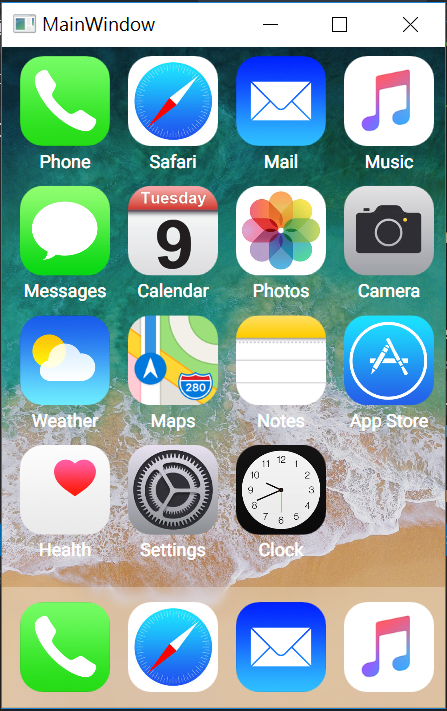
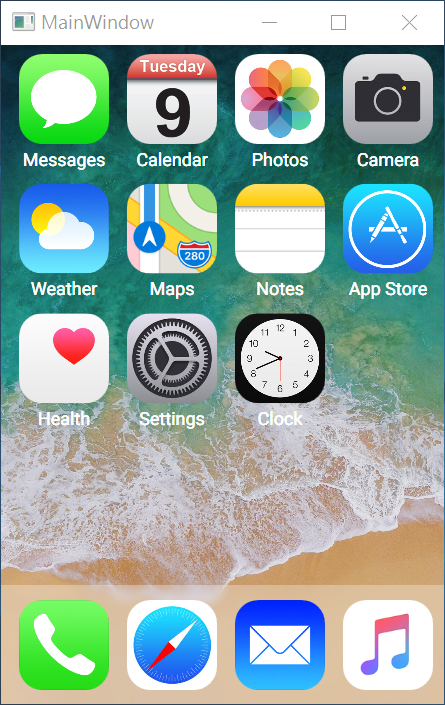
Add viewbox to make RWD

diff --git a/iosLayout/MainWindow.xaml b/iosLayout/MainWindow.xaml
@@ -15,51 +15,59 @@
         mc:Ignorable="d"
         Title="MainWindow"
         WindowStartupLocation="CenterScreen"
-        Height="470"
-        Width="310">
+        WindowStyle="SingleBorderWindow"
+        AllowsTransparency="False"
+        Height="587"
+        Width="300"
+        MouseDoubleClick="Window_MouseDoubleClick">
+
   <Window.DataContext>
     <local:MainWindowViewModel />
   </Window.DataContext>
-  <Grid>
-    <Grid x:Name="BlurContainer">
-      <Image Stretch="Fill"
-             Source="Assets/wallpaper.png" />
-    </Grid>
-    <Grid>
-      <Grid.RowDefinitions>
-        <RowDefinition Height="auto" />
-        <RowDefinition Height="360" />
-        <RowDefinition Height="auto" />
-        <RowDefinition Height="80" />
-      </Grid.RowDefinitions>
-      <!--<StackPanel Orientation="Horizontal">
-        <Button Style="{StaticResource Folder}">
-          <ItemsControl Style="{StaticResource FolderPanel}"
-                        ItemsSource="{Binding Folder1Items}">
+
+  <Viewbox Stretch="Uniform">
+    <Grid Width="293"
+          Height="557">
+      <Grid.Background>
+        <ImageBrush ImageSource="Assets/iPhone.png"
+                    Stretch="Uniform" />
+      </Grid.Background>
+      <Grid Margin="36,81,33.333,81.333">
+
+        <Grid x:Name="BlurContainer">
+          <Image Stretch="Fill"
+                 Source="Assets/wallpaper.png" />
+        </Grid>
+        <Grid>
+          <Grid.RowDefinitions>
+            <RowDefinition Height="auto" />
+            <RowDefinition Height="360" />
+            <RowDefinition Height="auto" />
+            <RowDefinition Height="80" />
+          </Grid.RowDefinitions>
+
+          <local:SwipeableFrame Grid.Row="1"
+                                x:Name="MainFrame">
+            <local:Page1 Width="{Binding ActualWidth, RelativeSource={RelativeSource Mode=FindAncestor, AncestorType=Canvas}}"
+                         Height="{Binding ActualHeight, RelativeSource={RelativeSource Mode=FindAncestor, AncestorType=Canvas}}" />
+            <local:Page2 Width="{Binding ActualWidth, RelativeSource={RelativeSource Mode=FindAncestor, AncestorType=Canvas}}"
+                         Height="{Binding ActualHeight, RelativeSource={RelativeSource Mode=FindAncestor, AncestorType=Canvas}}" />
+          </local:SwipeableFrame>
+
+          <controls:BlurryUserControl Name="blurry"
+                                      Grid.Row="3"
+                                      BlurContainer="{Binding ElementName=BlurContainer}"
+                                      Background="{StaticResource BlurryBackground}" />
+          <ItemsControl Name="MainButtonsPanel"
+                        Style="{StaticResource MainButtonPanel}"
+                        Grid.Row="3"
+                        Panel.ZIndex="1"
+                        ItemsSource="{Binding MainButtonsPanelItems}">
           </ItemsControl>
-        </Button>
-      </StackPanel>-->
 
-
-      <local:SwipeableFrame Grid.Row="1"
-                            x:Name="MainFrame">
-        <local:Page1 Width="{Binding ActualWidth, RelativeSource={RelativeSource Mode=FindAncestor, AncestorType=Canvas}}"
-                     Height="{Binding ActualHeight, RelativeSource={RelativeSource Mode=FindAncestor, AncestorType=Canvas}}" />
-        <local:Page2 Width="{Binding ActualWidth, RelativeSource={RelativeSource Mode=FindAncestor, AncestorType=Canvas}}"
-                     Height="{Binding ActualHeight, RelativeSource={RelativeSource Mode=FindAncestor, AncestorType=Canvas}}" />
-      </local:SwipeableFrame>
-
-      <controls:BlurryUserControl Name="blurry"
-                                  Grid.Row="3"
-                                  BlurContainer="{Binding ElementName=BlurContainer}"
-                                  Background="{StaticResource BlurryBackground}" />
-      <ItemsControl Name="MainButtonsPanel"
-                    Style="{StaticResource MainButtonPanel}"
-                    Grid.Row="3"
-                    Panel.ZIndex="1"
-                    ItemsSource="{Binding MainButtonsPanelItems}">
-      </ItemsControl>
-
+        </Grid>
+      </Grid>
     </Grid>
-  </Grid>
+
+  </Viewbox>
 </Window>

diff --git a/iosLayout/ViewModels/MainWindowViewModel.cs b/iosLayout/ViewModels/MainWindowViewModel.cs
@@ -15,33 +15,8 @@ namespace iosLayout
     public MainWindowViewModel()
     {
       InitializeMainButtonsPanel();
-      InitializeFolder1();
     }
 
-
-    public List<ButtonViewModel> Folder1Items { get; set; } = new List<ButtonViewModel>();
-    private void InitializeFolder1()
-    {
-      var imageList = new List<Uri>
-      {
-        new Uri($"pack://application:,,,/Assets/icon_phone.png"),
-        new Uri($"pack://application:,,,/Assets/icon_safari.png"),
-        new Uri($"pack://application:,,,/Assets/icon_mail.png"),
-        new Uri($"pack://application:,,,/Assets/icon_music.png"),
-        new Uri($"pack://application:,,,/Assets/icon_music.png"),
-        new Uri($"pack://application:,,,/Assets/icon_music.png"),
-        new Uri($"pack://application:,,,/Assets/icon_music.png"),
-        new Uri($"pack://application:,,,/Assets/icon_music.png"),
-        new Uri($"pack://application:,,,/Assets/icon_music.png"),
-      };
-
-      for (int i = 0; i < imageList.Count; i++)
-      {
-        Folder1Items.Add(new ButtonViewModel(imageList[i]));
-      }
-    }
-
-    //public List<ButtonViewModel> MainButtonsPanelItems { get; set; } = new List<ButtonViewModel>();
     public CompositeCollection MainButtonsPanelItems { get; set; }
     private void InitializeMainButtonsPanel()
     {
@@ -50,21 +25,20 @@ namespace iosLayout
         new MainButtonViewModel($"Assets/icon_phone.png".PackUri(), "Phone"),
         new MainButtonViewModel($"Assets/icon_safari.png".PackUri(), "Safari"),
         new MainButtonViewModel($"Assets/icon_mail.png".PackUri(), "Mail"),
-
-        new MainFolderViewModel("Folder", new ObservableCollection<ButtonViewModel>
-        {
-          new ButtonViewModel($"Assets/icon_phone.png".PackUri(), "Phone"),
-          new ButtonViewModel($"Assets/icon_phone.png".PackUri(), "Phone"),
-          new ButtonViewModel($"Assets/icon_phone.png".PackUri(), "Phone"),
-          new ButtonViewModel($"Assets/icon_phone.png".PackUri(), "Phone"),
-          new ButtonViewModel($"Assets/icon_phone.png".PackUri(), "Phone"),
-          new ButtonViewModel($"Assets/icon_phone.png".PackUri(), "Phone"),
-          new ButtonViewModel($"Assets/icon_phone.png".PackUri(), "Phone"),
-          new ButtonViewModel($"Assets/icon_phone.png".PackUri(), "Phone"),
-          new ButtonViewModel($"Assets/icon_phone.png".PackUri(), "Phone"),
-        })
+        new MainButtonViewModel($"Assets/icon_music.png".PackUri(), "Music"),
+        //new MainFolderViewModel("Folder", new ObservableCollection<ButtonViewModel>
+        //{
+        //  new ButtonViewModel($"Assets/icon_phone.png".PackUri(), "Phone"),
+        //  new ButtonViewModel($"Assets/icon_phone.png".PackUri(), "Phone"),
+        //  new ButtonViewModel($"Assets/icon_phone.png".PackUri(), "Phone"),
+        //  new ButtonViewModel($"Assets/icon_phone.png".PackUri(), "Phone"),
+        //  new ButtonViewModel($"Assets/icon_phone.png".PackUri(), "Phone"),
+        //  new ButtonViewModel($"Assets/icon_phone.png".PackUri(), "Phone"),
+        //  new ButtonViewModel($"Assets/icon_phone.png".PackUri(), "Phone"),
+        //  new ButtonViewModel($"Assets/icon_phone.png".PackUri(), "Phone"),
+        //  new ButtonViewModel($"Assets/icon_phone.png".PackUri(), "Phone"),
+        //})
       };
     }
-
   }
 }

diff --git a/iosLayout/ViewModels/Page1ViewModel.cs b/iosLayout/ViewModels/Page1ViewModel.cs
@@ -15,10 +15,6 @@ namespace iosLayout
     {
       MainButtonsPanelItems = new CompositeCollection
       {
-        new ButtonViewModel($"Assets/icon_phone.png".PackUri(),    "Phone"),
-        new ButtonViewModel($"Assets/icon_safari.png".PackUri(),   "Safari"),
-        new ButtonViewModel($"Assets/icon_mail.png".PackUri(),     "Mail"),
-        new ButtonViewModel($"Assets/icon_music.png".PackUri(),    "Music"),
         new ButtonViewModel($"Assets/icon_message.png".PackUri(),  "Messages"),
         new ButtonViewModel($"Assets/icon_calendar.png".PackUri(), "Calendar"),
         new ButtonViewModel($"Assets/icon_photo.png".PackUri(),    "Photos"),

diff --git a/iosLayout/MainWindow.xaml.cs b/iosLayout/MainWindow.xaml.cs
@@ -25,5 +25,10 @@ namespace iosLayout
     {
       InitializeComponent();
     }
+
+    private void Window_MouseDoubleClick(object sender, MouseButtonEventArgs e)
+    {
+      Close();
+    }
   }
 }
